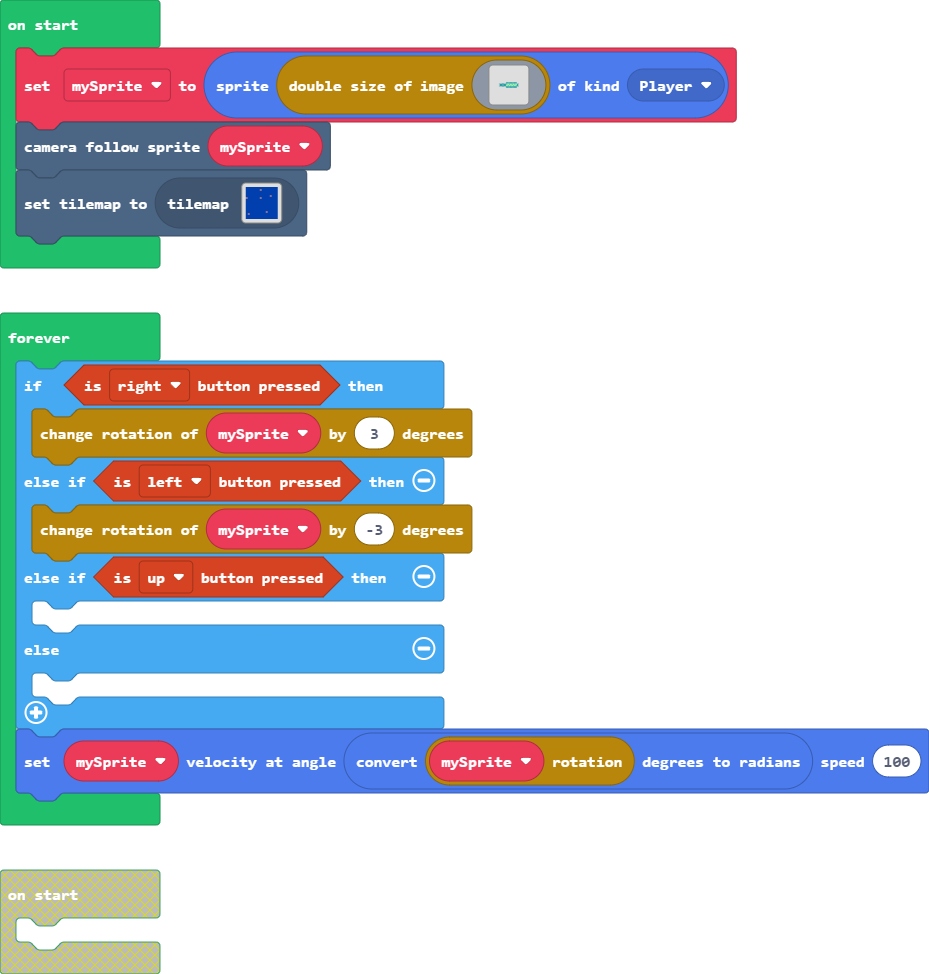
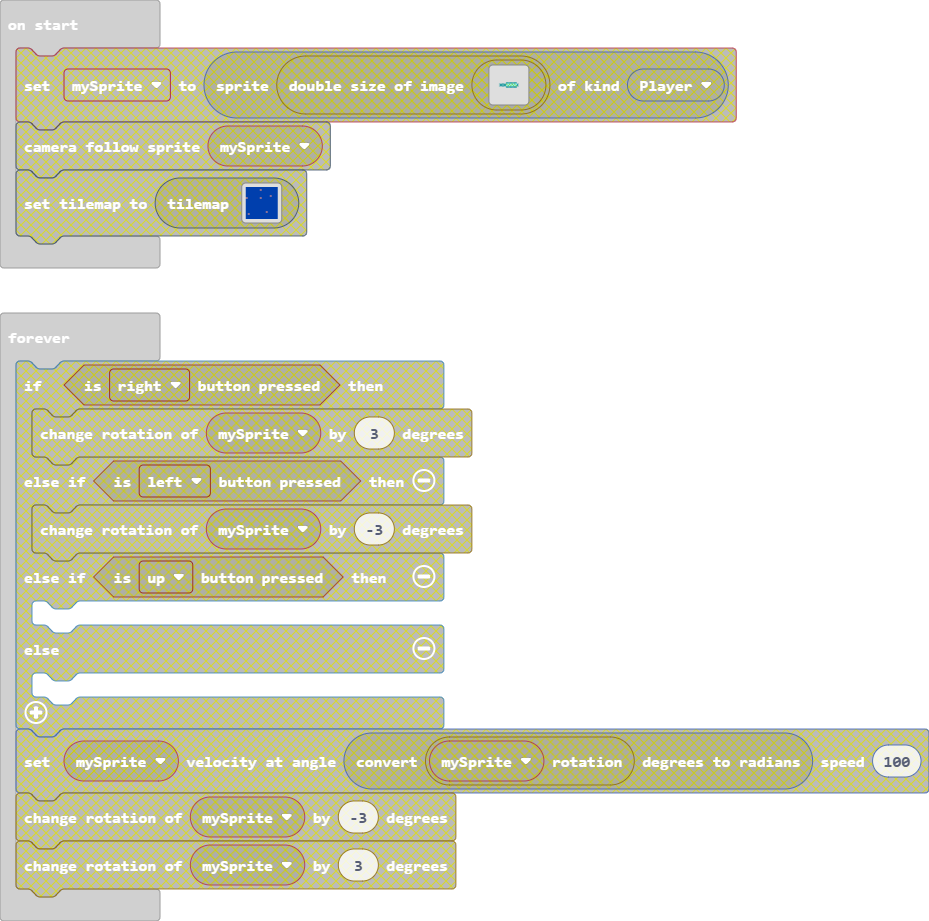
Update main.blocks, main.ts, images.g.jres, images.g.ts, tilemap.g.jres, tilemap.g.ts

diff --git a/images.g.ts b/images.g.ts
@@ -106,6 +106,129 @@ e e . . e . e . e . e . e . e e
 . . . . . . . . . . . . . . . . 
 . . . . . . . . . . . . . . . . 
 `;
+            case "image6":
+            case "myImage":return img`
+............................545454444444444444444444444444444444444444545454545454444444444444444444444444545454545454545454544444444444444444545454545454545454
+............................454444444444444444444444444444444444444444454545454444444444444444444444444444454545454545444444444444444444444444454545454545454444
+...........................4444444444444444444444444444444444444444444444444444444444444444444444444444444444444444444444444444444444444444444444444444444444444
+...........................4444444444444444444444444444444444444444444444444444444444444444444444444444444444444444444444444444444444444444444444444444444444444
+...........................4444444444444444444444444444444444444444444444444444444444444545454545444444444444444444444444444444444444444444444444444444444444444
+...........................4444444444444444444454544444444444444444444444444444444444445454545454545444444444444444444444444444444444444444444444444444444444444
+...........................4444444444444445454545454545454444444444444444444444444445454545454545454545444444444444444444444444444444444444444444444444444444444
+..........................44444444444444454545454545454545454545444444444444444444454545454545454545454544444444444444444444444444444445454444444444444444444444
+..........................44444444444444545454545454545454545454545444444444444454545454545454545454545454545444444444444444444444445454545454444444444444444444
+..........................44444545454545454545454545454545454545454545454444444545454545454545454545454545454545444444444444444545454545454545454444444444444444
+..........................44445454545454545454545454545454545454545454545454545454545454545454545454545454545454544444444454545454545454545454545444444444444444
+..........................45454545454545454545454545454545454545454545454545454545454545454545454545454545454545454545454545454545454545454545454545444444444445
+..........................54545454545454545454545454545454545454545454545454545454545454545454545454545454545454545454545454545454545454545454545454545444445454
+..........................45454545454545454545454545454545454545454545454545454545454545454545454545454545454545454545454545454545454545454545454545454545454545
+..........................54545454545454545454545454545454545454545454545454545454545454545454545454545454545454545454545454545454545454545454545454545454545454
+..........................45454545454545454544444444444545454545454545454545454545454545454545454545454545454545454545454545454545454545454545454545454545454545
+..........................54545454545454444444444444444444445454545454545454545454545454545454545454545454545454545454545454545454545454545454545454545454545454
+..........................45454545444444444444444444444444444445454545454545454545454444444444444444444445454545454545454545454545454545454545454545454545454545
+..........................54545454444444444444444444444444444444444454545454545454444444444444444444444444545454545454545454545454545454545454545454545454545454
+..........................45454444444444444444444444444444444444444444454545454444444444444444444444444444454545454545454545454545454545444444444545454545454545
+..........................44444444444444444444444444444444444444444444444444444444444444444444444444444444444454545454545454545444444444444444444454545454545454
+..........................44444444444444444444444444444444444444444444444444444444444444444444444444444444444444454545454544444444444444444444444445454545454545
+..........................44444444444444444444444444444444444444444444444444444444444444444444444444444444444444444444444444444444444444444444444444444454545454
+..........................44444444444444444444444444444444444444444444444444444444444444444444444444444444444444444444444444444444444444444444444444444444454545
+..........................44444444444444444444444444545454444444444444444444444444444444444444444444444444444444444444444444444444444444444444444444444444445454
+..........................44444444444444444444444545454545454444444444444444444444444444444444444444444444444444444444444444444444444444444444444444444444444444
+..........................44444444444444444454545454545454545454544444444444444444444444444444444444444444444444444444444444444444444444444444444444444444444444
+..........................44444444444545454545454545454545454545454444444444444444444444444444454545454545444444444444444444444444444444444444444444444444444444
+..........................44444444545454545454545454545454545454545454444444444444444444444454545454545454545444444444444444444444444444544444444444444444444444
+..........................44444545454545454545454545454545454545454545454544444444444445454545454545454545454545444444444444444444444545454544444444444444444444
+..........................44445454545454545454545454545454545454545454545454544444445454545454545454545454545454444444444444444444445454545454544444444444444444
+..........................45454545454545454545454545454545454545454545454545454545454545454545454545454545454545454444444444444545454545454545454544444444444444
+...........................4545454545454545454545454545454545454545454545454545454545454545454545454545454545454545454445454545454545454545454545454544444444444
+...........................5454545454545454545454545454545454545454545454545454545454545454545454545454545454545454545454545454545454545454545454545454544444444
+...........................4545454545454445444444444545454545454545454545454545454545454545454545454545454545454545454545454545454545454545454545454545454544444
+...........................5454545454444444444444444444545454545454545454545454545454545454545454545454545454545454545454545454545454545454545454545454545454444
+...........................4545454444444444444444444444444545454545454545454545454545454545454545444444454545454545454545454545454545454545454545454545454545454
+...........................5454544444444444444444444444444454545454545454545454545454545454545454444444445454545454545454545454545454545454545454545454545454545
+...........................4545444444444444444444444444444444444444454545454545454545454545454444444444444545454545454545454545454545454545454545454545454545454
+...........................5454444444444444444444444444444444444444444444545454545454545454444444444444444454545454545454545454545454545454545454545454545454545
+............................444444444444444444444444444444444444444444444454545454544444444444444444444444445454545454545454545454545454545454545454545454545454
+.............................4444444cccccc2cccccccc4444444444444444444444444444444444444444444444444444444444445454545454545454545454545454545454545454545454545
+.............................4444cccccccccc2cccccccccc4444444444444444444444444444444444444444444444444444444444545454545454545454544444444444445454545454545454
+.............................44ccccccccccccc22cccccccccc44444444444444444444444444444444444444444444444444444444444444444444444444444444444444444445454545454545
+.............................4cccccccccccccccc2ccccccccccc444444444444444444444444444444444444444444444444444444444444444444444444444444444444444444545454545454
+............................ccccccccccccccccccc2ccccccccccc44444444444444444444444444444444444444444444444444444444444444444444444444444444444444444454545454545
+..........................cccccccccccccccccccccc22ccccccccccc545454444444444444444444444444444444545454444444444444444444444444444444444444444444444444454545454
+.........................ccccccccccccccccccccccccc2ccccccccccc54545454545444444444444444444444445454545444444444444444444444444444444444444444444444444444454545
+........................ccccccccccccccccccccccccccc2ccccccccccc5454545454544444444444444444444444545454544444444444444444444444444444444444444444444444444445454
+.......................ccccccccccccccccccccccccccccc2ccccccccccc545454545454544444444444444444545454545454444444444444444444444444444444444444444444444444444545
+......................2222cccccccccccccccccccccccccc2cccccccccccc54545454545454444444444444545454545454545444444444444444444444444444444444444444444444444444454
+.....................ccccc222222222cccccccccccccccccc2cccccc2222225454545454545454545454545454545454545454544444444444444444444444444444444444444444444444444445
+.....................cccccccccccccc2cccccccccccccccccc2cc222cccccc4545454545454545454545454545454545454545454444444444444444444444454545454544444444444444444444
+....................ccccccccccccccc2cccccccccccccccccc222cccccccccc454545454545454545454545454545454545454545444444444444444444454545454545454444444444444444444
+...................ccccccccccccccccc2ccccccccccccccc22cc2ccccccccccc45454545454545454545454545454545454545454545454444454545454545454545454545454444444444444444
+...................cccccccccccccccccc2cccccccccccc22cccc2ccccccccccc54545454545454545454545454545454545454545454545454545454545454545454545454545454444444444444
+..................ccccccccccccccccccc2cccccccccc22ccccccc2ccccccccccc5454545454545454545454545454545454545454545454545454545454545454545454545454545444444444444
+..................ccccccccccccccccccc2ccccccccc2ccccccccc2ccccccccccc4545454545454545454545454545454545454545454545454545454545454545454545454545454544444444444
+.................cccccccccccccccccccc2cccccccc2cccccccccc2cccccccccccc454545454545454545454545454545454545454545454545454545454545454545454545454545454544444444
+.................ccccccccccccccccccccc2cccccc2ccccccccccc2cccccccccccc545454545454545454545454545454545454545454545454545454545454545454545454545454545454544444
+.................ccccccccccccccccccccc2ccccc2cccccccccccc2cccccccccccc454545454545454545454545454545454545454545454545454545454545454545454545454545454545454444
+................cccccccccccccccccccccc2cccc2cccccccccccccc2cccccccccccc45454545454545454545454545454545454545454545454545454545454545454545454545454545454545444
+................ccccccccccccccccccccccc2222cccccccccccccccc2ccccccccccc54545454545454545454545454545454545454545454545454545454545454545454545454545454545454544
+................cccccccccccccccccccccc2cccccccccccccccccccc2ccccccccccc45454545454545454545454445454545454545454545454545454545454545454545454545454545454545454
+................cccccccccccccccccccccc2cccccccccccccccccccc2ccccccc222244545454545454545454544444445454545454545454545454545454545454545454545454545454545454545
+................ccccccccccccccccccccccc2ccccccccccccccccccc2ccccc22cccc44444445454544454444444444444545454545454545454545454545454545454545454545454545454545454
+................ccccccccccccccccccccccc2ccccccccccccccccccc2ccc22cccccc44444444444444444444444444444454545454545454545454545454545454545454545454545454545454545
+................ccccccccccccccccccccccc2ccccccccccccccccccc2c22cccccccc44444444444444444444444444444445454545454545454545454545454545454545454545454545454545454
+................ccccccccccccccccccccccc2cccccccccccccccccccc2cccccccccc44444444444444444444444444444444545454545454545454545454545444444444444454545454545454545
+................ccccccccccccccccccccccc2ccccccccccccccccccc2ccccccccccc44444444444444444444444444444444454545454545454545454545444444444444444445454545454545454
+................22222ccccccccccccccccc2cccccccccccccccccccc2ccccccccccc44444444444444444444444444444444444444545454545454545444444444444444444444545454545454545
+................ccccc222ccccccccccccc2cccccccccccccccccccccc2cccccccccc44444444444444444444444444444444444444444545454545444444444444444444444444454545454545454
+................cccccccc22ccccccc2222ccccccccccccccccccccccc2cccccccccc44444444444444444444444444444444444444444444545444444444444444444444444444445454545454545
+................cccccccccc2ccccc2ccccccccccccccccccccccccccc2cccccccccc44444444444444444444444444444444444444444444444444444444444444444444444444444545454545454
+................ccccccccccc2ccc2cccccccccccccccccccccccccccc2cccccccccc44444444444444444444444444444444444444444444444444444444444444444444444444444444445454545
+................cccccccccccc2c2ccccccccccccccccccccccccccccc2cccccccccc44444444444444444444444444444444444444444444444444444444444444444444444444444444444444454
+.................cccccccccccc2cccccccccccccccccccccccccccccc2ccccccccc444444444444454545444444444444444444444444444444444444444444444444444444444444444444444445
+.................cccccccccccc2cccccccccccccccccccccccccccccc2ccccccccc545454545454545454544444444444444444444444444444444444444444444444444444444444444444444444
+.................cccccccccccc2ccccccccccccccccccccccccccccc2cccccccccc454545454545454545454545444444444444444444444444444444444444444444444444444444444444444444
+..................cccccccccc2cccccccccccccccccccccccccccccc2ccccccccc4545454545454545454545454544444444444444444444444444444444444444444444444444444444444444444
+..................cccccccccc2ccccccccccccccccccccccccccccc2cccccccccc5454545454545454545454545454544444444444444444444444444444444444444444444444444444444444444
+...................cccccccccc2ccccccccccccccccccccccccccc2cccccccccc5454545454545454545454545454545444444444444444444444444444444444444444444444444444444444444.
+...................cccccccccc2cccccccccccccccccccccccccc2c2ccccccccc45454545454545454545454545454545444444444444444444444444444444444444444444444444444444444...
+....................cccccccccc2ccc2222ccccccccccccccccc2cc2cccccccc45454545454545454545454545454545454444444444444444444444444444444444454544444444444444444....
+.....................ccccccccc2cc2cccc222ccccccccccccc2ccc2ccccccc45454545454545454545454545454545454545444444444444444444444444454545454545454444444444444.....
+.....................cccccccccc22cccccccc222cccccccc22cccc2ccccccc545454545454545454545454545454545454545454544444444444444454545454545454545454444444444.......
+......................ccccccccccc2cccccccccc2ccccc22cccccc2cccccc545454545454545454545454545454545454545454545444444444445454545454545454545454544444444........
+.......................cccccccccc2ccccccccccc22222cccccccc2ccccc545454444444444454545454545454545454545454545454545454545454545454545454545454545444444.........
+........................ccccccccc2cccccccccccccccccccccccc2cccc.4444444444444444444445454545454545454545454545454545454545454545454545454545454545444...........
+.........................ccccccc2ccccccccccccccccccccccccc2ccc....444444444444444444444454545454545454545454545454545454545454545454545454545454545.............
+..........................cccccc2ccccccccccccccccccccccccc2cc.......44444444444444444444454545454545454545454545454545454545454545454545454545454...............
+............................ccc2cccccccccccccccccccccccccc2..........444444444444444444444445454545454545454545454545454545454545454545454545454................
+.............................c2ccccccccccccccccccccccccccc.............44444444444444444444445454545454545454545454545454545454545454545454545..................
+...............................ccccccccccccccccccccccccc..................44444444444444444444545454545454545454545454545454545454545454545.....................
+.................................ccccccccccccccccccccc......................4444444444444444444545454545454545454545454545454545454545454.......................
+....................................ccccccccccccccc...........................444444444444444444445454545454545454545454545454545454545.........................
+.................................................................................444444444444444444445454545454545454545444444444545............................
+.....................................................................................4444444444444444454545454545454544444444444................................
+.........................................................................................44444444444444444444444444444444444....................................
+..............................................................................................4444444444444444444444444.........................................
+................................................................................................................................................................
+................................................................................................................................................................
+................................................................................................................................................................
+................................................................................................................................................................
+................................................................................................................................................................
+................................................................................................................................................................
+................................................................................................................................................................
+................................................................................................................................................................
+................................................................................................................................................................
+................................................................................................................................................................
+................................................................................................................................................................
+................................................................................................................................................................
+................................................................................................................................................................
+................................................................................................................................................................
+................................................................................................................................................................
+................................................................................................................................................................
+................................................................................................................................................................
+................................................................................................................................................................
+................................................................................................................................................................
+................................................................................................................................................................
+`;
         }
         return null;
     })

diff --git a/tilemap.g.ts b/tilemap.g.ts
@@ -45,6 +45,63 @@ namespace myTiles {
 . . . . . . . . . . . . . . . . 
 . . . . . . . . . . . . . . . . 
 `, [myTiles.transparency16,myTiles.tile1,sprites.builtin.coral0], TileScale.Sixteen);
+            case "level3":
+            case "level3":return tiles.createTilemap(hex`1000100000000000000000000000000000000000000000000000000000000000000000000000000000000000000000000000000000000000000000000000000000000000000000000000000000000000000000000000000000000000000000000000000000000000000000000000000000000000000000000000000000000000000000000000000000000000000000000000000000000000000000000000000000000000000000000000000000000000000000000000000000000000000000000000000000000000000000000000000000000000000000000000000000000000000000000000000000000000000000000000000000000000000000000000000000000000`, img`
+. . . . . . . . . . . . . . . . 
+. . . . . . . . . . . . . . . . 
+. . . . . . . . . . . . . . . . 
+. . . . . . . . . . . . . . . . 
+. . . . . . . . . . . . . . . . 
+. . . . . . . . . . . . . . . . 
+. . . . . . . . . . . . . . . . 
+. . . . . . . . . . . . . . . . 
+. . . . . . . . . . . . . . . . 
+. . . . . . . . . . . . . . . . 
+. . . . . . . . . . . . . . . . 
+. . . . . . . . . . . . . . . . 
+. . . . . . . . . . . . . . . . 
+. . . . . . . . . . . . . . . . 
+. . . . . . . . . . . . . . . . 
+. . . . . . . . . . . . . . . . 
+`, [myTiles.transparency16], TileScale.Sixteen);
+            case "level4":
+            case "level4":return tiles.createTilemap(hex`1000100000000000000000000000000000000000000000000000000000000000000000000000000000000000000000000000000000000000000000000000000000000000000000000000000000000000000000000000000000000000000000000000000000000000000000000000000000000000000000000000000000000000000000000000000000000000000000000000000000000000000000000000000000000000000000000000000000000000000000000000000000000000000000000000000000000000000000000000000000000000000000000000000000000000000000000000000000000000000000000000000000000000000000000000000000000000`, img`
+. . . . . . . . . . . . . . . . 
+. . . . . . . . . . . . . . . . 
+. . . . . . . . . . . . . . . . 
+. . . . . . . . . . . . . . . . 
+. . . . . . . . . . . . . . . . 
+. . . . . . . . . . . . . . . . 
+. . . . . . . . . . . . . . . . 
+. . . . . . . . . . . . . . . . 
+. . . . . . . . . . . . . . . . 
+. . . . . . . . . . . . . . . . 
+. . . . . . . . . . . . . . . . 
+. . . . . . . . . . . . . . . . 
+. . . . . . . . . . . . . . . . 
+. . . . . . . . . . . . . . . . 
+. . . . . . . . . . . . . . . . 
+. . . . . . . . . . . . . . . . 
+`, [myTiles.transparency16], TileScale.Sixteen);
+            case "level5":
+            case "level5":return tiles.createTilemap(hex`1000100000000000000000000000000000000000000000000000000000000000000000000000000000000000000000000000000000000000000000000000000000000000000000000000000000000000000000000000000000000000000000000000000000000000000000000000000000000000000000000000000000000000000000000000000000000000000000000000000000000000000000000000000000000000000000000000000000000000000000000000000000000000000000000000000000000000000000000000000000000000000000000000000000000000000000000000000000000000000000000000000000000000000000000000000000000000`, img`
+. . . . . . . . . . . . . . . . 
+. . . . . . . . . . . . . . . . 
+. . . . . . . . . . . . . . . . 
+. . . . . . . . . . . . . . . . 
+. . . . . . . . . . . . . . . . 
+. . . . . . . . . . . . . . . . 
+. . . . . . . . . . . . . . . . 
+. . . . . . . . . . . . . . . . 
+. . . . . . . . . . . . . . . . 
+. . . . . . . . . . . . . . . . 
+. . . . . . . . . . . . . . . . 
+. . . . . . . . . . . . . . . . 
+. . . . . . . . . . . . . . . . 
+. . . . . . . . . . . . . . . . 
+. . . . . . . . . . . . . . . . 
+. . . . . . . . . . . . . . . . 
+`, [myTiles.transparency16], TileScale.Sixteen);
         }
         return null;
     })

diff --git a/main.ts b/main.ts
@@ -1,15 +1,3 @@
-let mySprite = sprites.create(transformSprites.scale2x(assets.image`lil bacteria`), SpriteKind.Player)
-scene.cameraFollowSprite(mySprite)
-tiles.setCurrentTilemap(tilemap`level2`)
 forever(function () {
-    if (controller.right.isPressed()) {
-        transformSprites.changeRotation(mySprite, 3)
-    } else if (controller.left.isPressed()) {
-        transformSprites.changeRotation(mySprite, -3)
-    } else if (controller.up.isPressed()) {
-    	
-    } else {
-    	
-    }
-    spriteutils.setVelocityAtAngle(mySprite, spriteutils.degreesToRadians(transformSprites.getRotation(mySprite)), 100)
+	
 })
